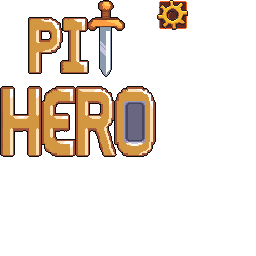
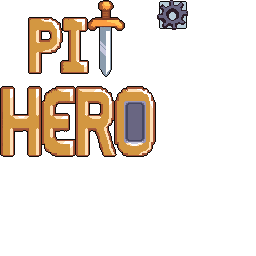
Gear and settings menu displayed in center top of screen

Changed region(s): [[0.5938, 0.0, 0.75, 0.125]]

diff --git a/PitHero/UI/SettingsUI.cs b/PitHero/UI/SettingsUI.cs
@@ -49,6 +49,10 @@ namespace PitHero.UI
         private bool _isDockedCenter = false;
         private bool _alwaysOnTop = true; // Track current always-on-top state
 
+        // Add these fields
+        private float _lastStageW = -1f;
+        private float _lastStageH = -1f;
+
         public SettingsUI(Game game)
         {
             _game = game;
@@ -64,7 +68,7 @@ namespace PitHero.UI
             // Use default skin
             var skin = Skin.CreateDefaultSkin();
 
-            // Create main table for layout
+            // Create main table for layout (kept to avoid breaking other UI expectations)
             _mainTable = new Table();
             _mainTable.SetFillParent(true);
             _stage.AddElement(_mainTable);
@@ -74,6 +78,10 @@ namespace PitHero.UI
 
             // Create settings TabPane (initially hidden)
             CreateSettingsWindow(skin);
+
+            // Ensure both elements are added directly to the stage for absolute positioning
+            _stage.AddElement(_gearButton);
+            _stage.AddElement(_settingsWindow);
 
             // Set up initial layout
             LayoutUI();
@@ -345,31 +353,69 @@ namespace PitHero.UI
             }
         }
 
+        /// <summary>Applies visibility and positions gear/settings window</summary>
         private void LayoutUI()
         {
-            _mainTable.Clear();
+            // Keep elements on the stage
+            if (_gearButton.GetStage() == null)
+                _stage.AddElement(_gearButton);
 
-            // Create a new row for the gear button and settings window
-            _mainTable.Add().SetExpandX(); // Take up left space
+            if (_settingsWindow.GetStage() == null)
+                _stage.AddElement(_settingsWindow);
+
+            // Apply visibility and position
+            _settingsWindow.SetVisible(_isVisible);
+            PositionUI();
+        }
+
+        private void PositionUI()
+        {
+            float stageW = _stage.GetWidth();
+            float stageH = _stage.GetHeight();
+
+            // Gear size
+            float gearW = _gearButton.GetWidth();
+            float gearH = _gearButton.GetHeight();
+
+            // Top middle: (middleX, 4px down from top)
+            float gearX = (stageW - gearW) * 0.5f;
+            float gearY = 2f;
+            _gearButton.SetPosition(gearX, gearY);
 
             if (_isVisible)
             {
-                // Add settings window to the left of gear button in the same row
-                _mainTable.Add(_settingsWindow).Right().SetPadRight(0); // 32 for gear + 32 for window offset
+                // Settings window directly to the right of the gear
+                const float padding = 4f;
+                float winW = _settingsWindow.GetWidth();
+                float winH = _settingsWindow.GetHeight();
+
+                float winX = gearX + gearW + padding;
+                float winY = gearY + padding;
+
+                // If it overflows to the right, show it to the left of the gear
+                if (winX + winW > stageW)
+                    winX = gearX - padding - winW;
+
+                // Clamp inside stage vertically and horizontally
+                if (winX < 0) winX = 0;
+                if (winY < 0) winY = 0;
+                if (winY + winH > stageH) winY = stageH - winH;
+
+                _settingsWindow.SetPosition(winX, winY);
             }
 
-            // Always add gear button in the same cell, right edge
-            _mainTable.Add(_gearButton).Right().SetPadRight(16);
-
-            _mainTable.Row();
+            _lastStageW = stageW;
+            _lastStageH = stageH;
         }
 
+        /// <summary>Toggles the settings window visibility and repositions UI</summary>
         private void ToggleSettingsVisibility()
         {
             _isVisible = !_isVisible;
             _settingsWindow.SetVisible(_isVisible);
-            
-            // Re-layout to show/hide the TabPane
+            if (_isVisible)
+                _settingsWindow.ToFront();
+
             LayoutUI();
         }
 
@@ -442,10 +488,15 @@ namespace PitHero.UI
 
         /// <summary>
         /// Updates the UI (called from scene update if needed)
+        /// Leaving this here but doing nothing, because for now windows size never changes
         /// </summary>
         public void Update()
         {
-            // Handle any per-frame UI updates if needed
+            // Re-center on window resize
+            //float stageW = _stage.GetWidth();
+            //float stageH = _stage.GetHeight();
+            //if (stageW != _lastStageW || stageH != _lastStageH)
+            //    PositionUI();
         }
     }
 }
